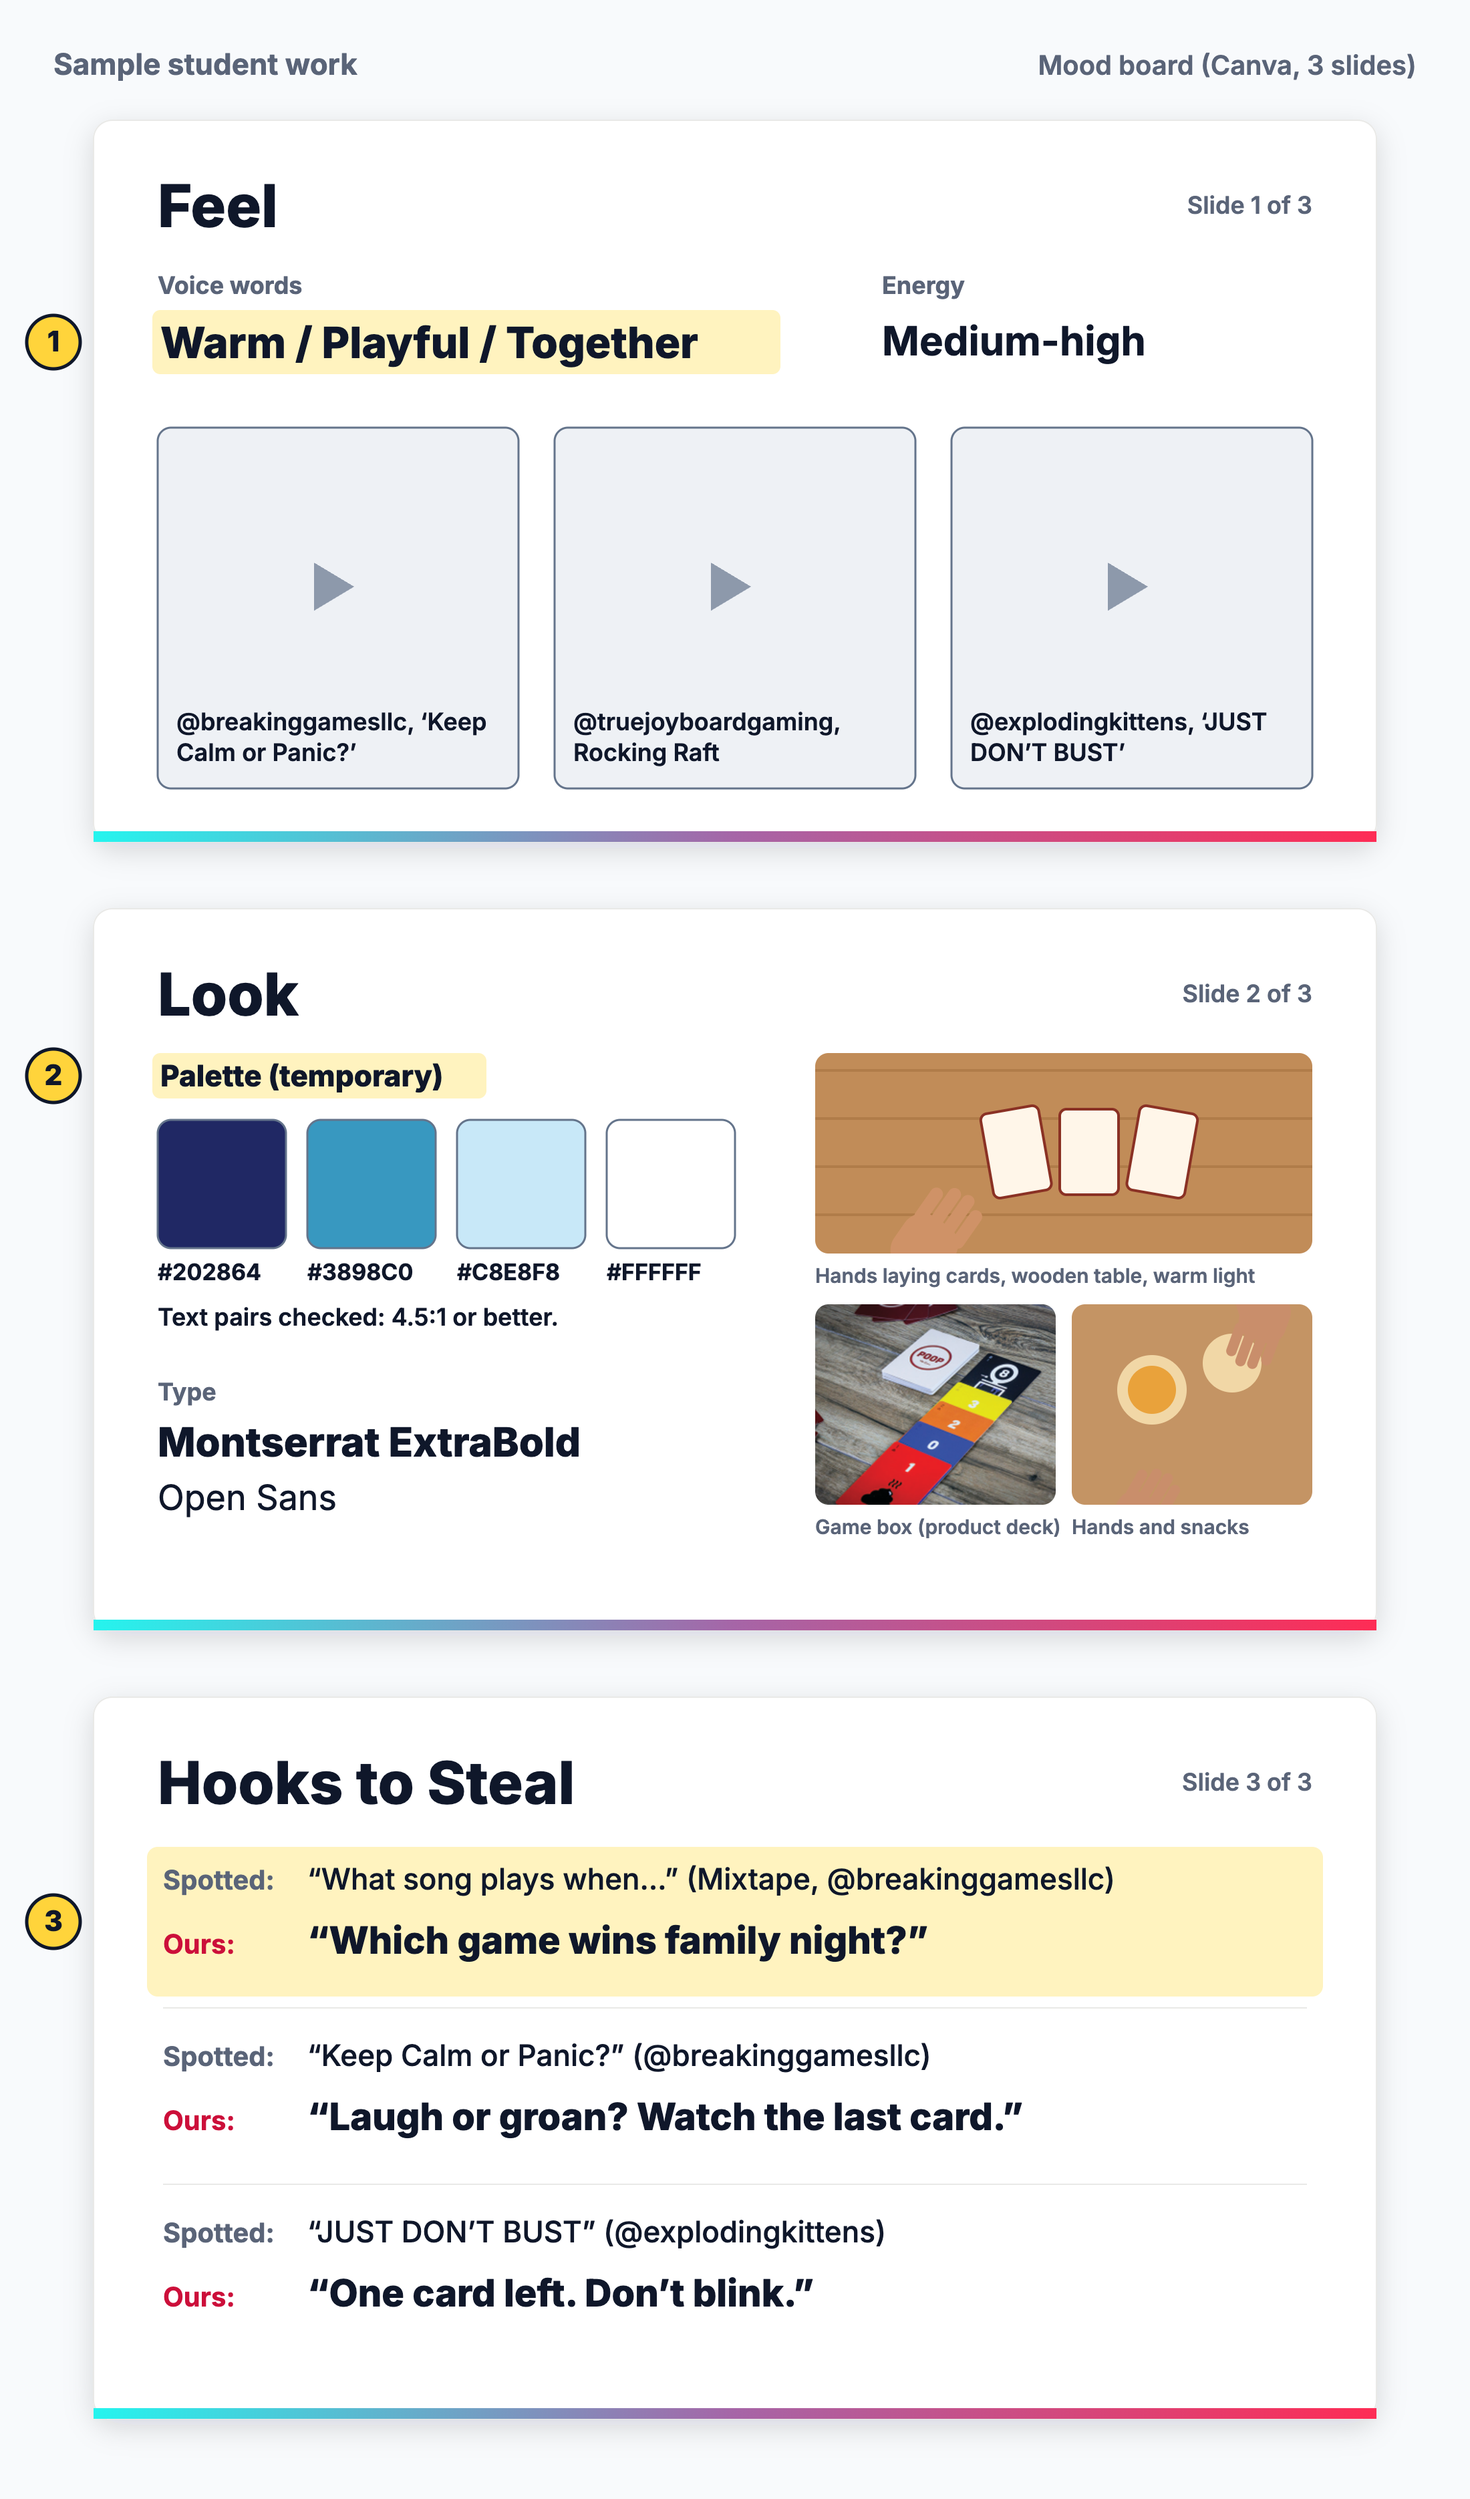
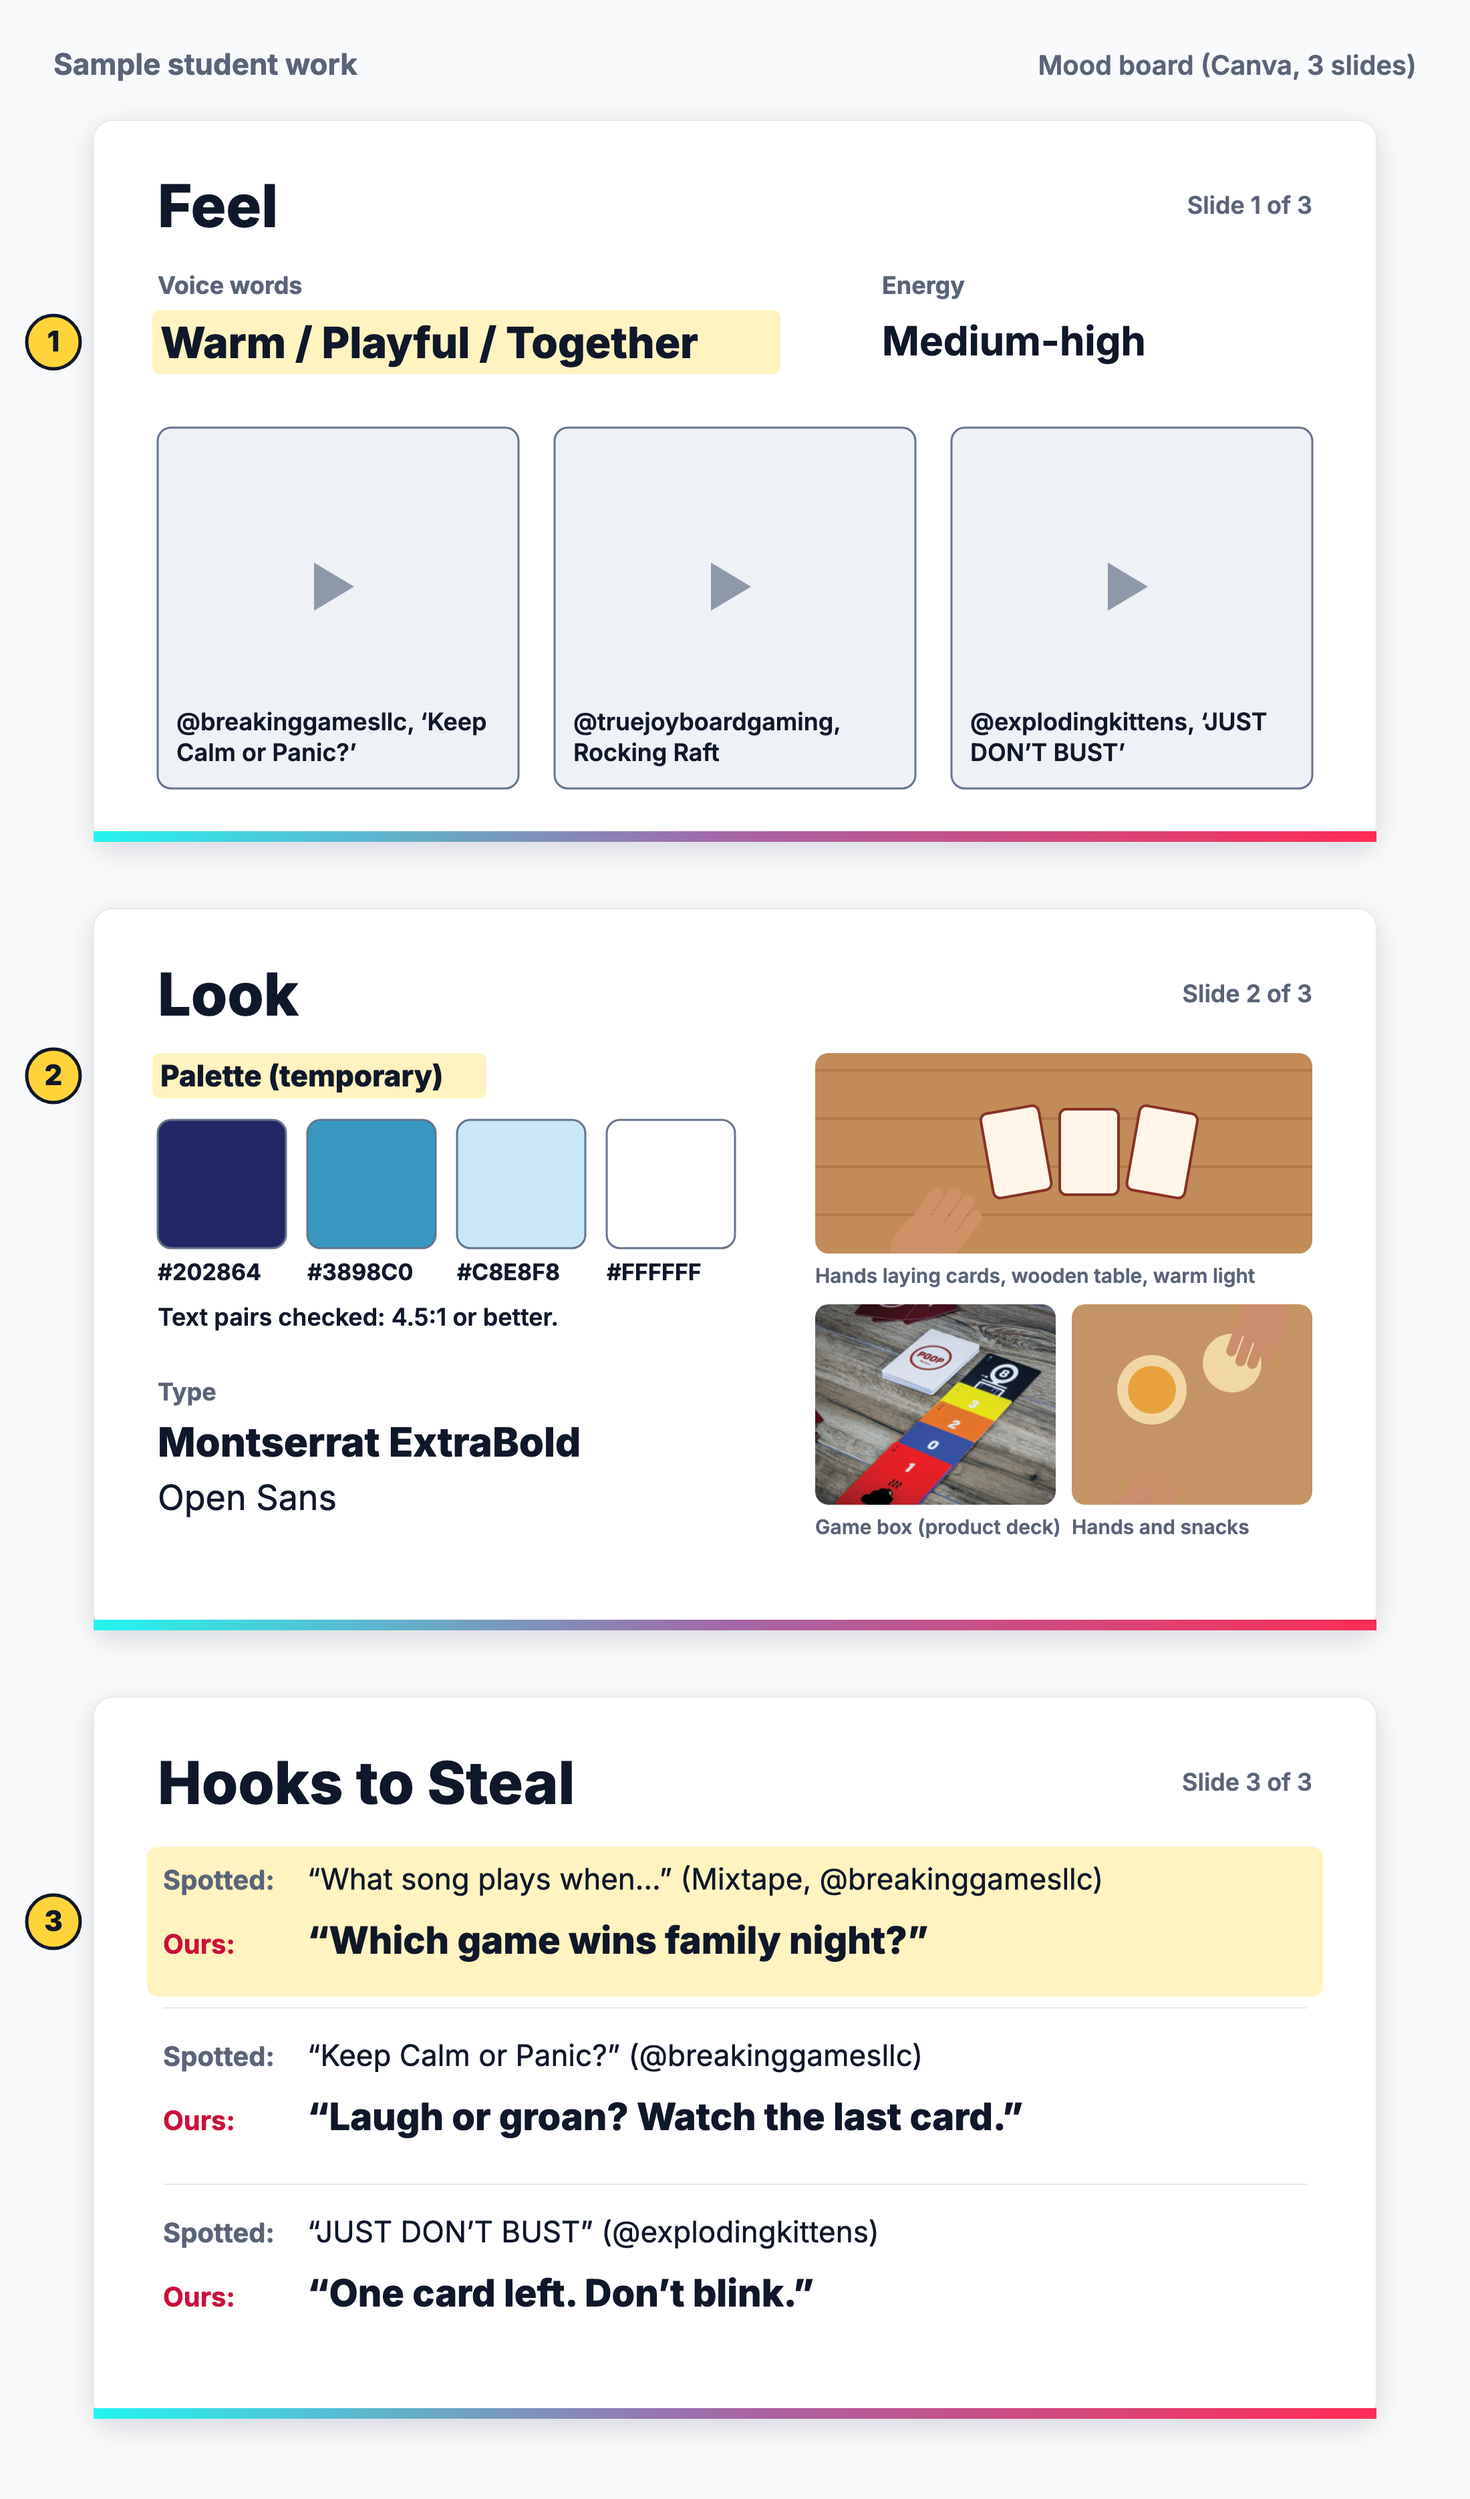
Breaking Games: POOP back mid-list in intro lists; restore POOP example images

diff --git a/breaking-games-brand-brief-builder.html b/breaking-games-brand-brief-builder.html
@@ -388,7 +388,7 @@ var SITE = 'https://breakinggames.com';
 var CTA = 'Find your next game night: link in bio';
 var BRAND_LINE = 'Good game, folks.';
 var END_CARD = 'Every video ends with the same 1 to 2 second end card: the Breaking Games logo + "Good game, folks."';
-var RELAUNCH = 'Relaunch Breaking Games on TikTok, led by its new game, Caminito. Breaking Games makes party, family and strategy games, like POOP, Sparkle*Kitty and Dwellings of Eldervale. Many people know a Breaking Games game but not the company behind it. TikTok @breakinggamesllc has 1,301 followers and has been quiet since October 2024. Instagram @breaking_games (4,243 followers) and Facebook are where it is most active today. The new brand is "Good game, folks.": connection, face-to-face play and making memories by playing games. The goal is new customers: new players find Breaking Games, like it, and buy from it.';
+var RELAUNCH = 'Relaunch Breaking Games on TikTok, led by its new game, Caminito. Breaking Games makes party, family and strategy games, like Sparkle*Kitty, POOP and Dwellings of Eldervale. Many people know a Breaking Games game but not the company behind it. TikTok @breakinggamesllc has 1,301 followers and has been quiet since October 2024. Instagram @breaking_games (4,243 followers) and Facebook are where it is most active today. The new brand is "Good game, folks.": connection, face-to-face play and making memories by playing games. The goal is new customers: new players find Breaking Games, like it, and buy from it.';
 var CAMINITO = '{PM: Caminito launch date, price, ages, player count and a one-line "how it plays"}';
 
 var PERSONAS = [

diff --git a/breaking-games-p1-quick-start.html b/breaking-games-p1-quick-start.html
@@ -218,7 +218,7 @@
     <section class="slide" aria-labelledby="h-2" hidden>
       <p class="step-num"></p>
       <h2 id="h-2" tabindex="-1">The problem</h2>
-      <p class="lead">People know the games, like POOP, Sparkle*Kitty and Dwellings of Eldervale, but not the company behind them.</p>
+      <p class="lead">People know the games, like Sparkle*Kitty, POOP and Dwellings of Eldervale, but not the company behind them.</p>
       <p>Your job is to make "Breaking Games" the name new players remember.</p>
     </section>
     <section class="slide" aria-labelledby="h-3" hidden>
